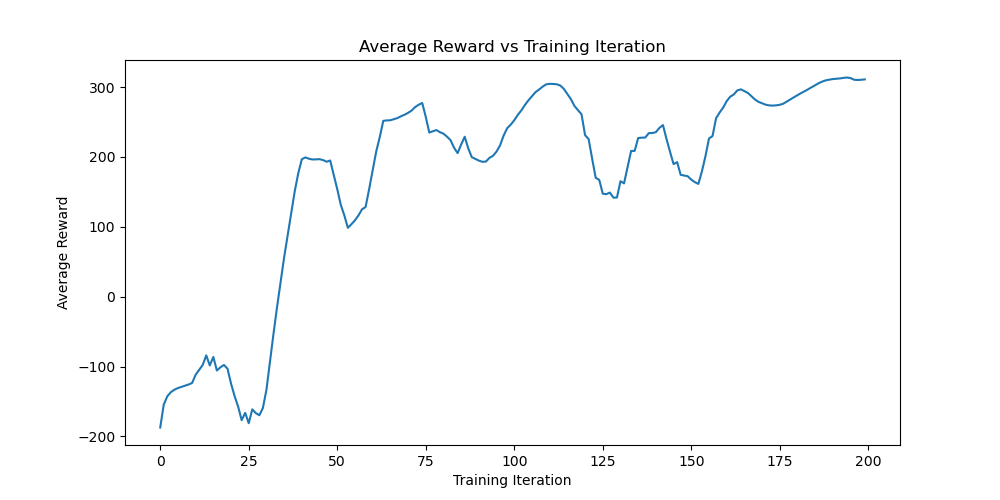
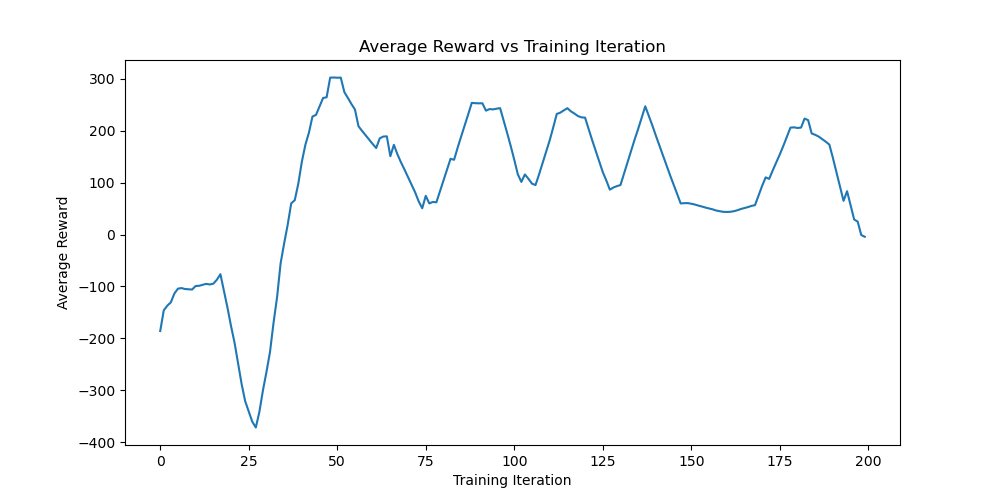
rerun

diff --git a/PG.py b/PG.py
@@ -314,11 +314,11 @@ if __name__ == "__main__":
     parser.add_argument("--env", default="LunarLander-v2")           # Gymnasium environment name
     parser.add_argument("--seed", default=0, type=int)               # Sets Gym, PyTorch and Numpy seeds //0
     parser.add_argument("--n-iter", default=200, type=int)           # Maximum number of training iterations //200
-    parser.add_argument("--discount", default=0.99)                  # Discount factor //0.99
+    parser.add_argument("--discount", default=0.992)                  # Discount factor //0.99
     parser.add_argument("--batch-size", default=8000, type=int)      # Training samples in each batch of training //5000
-    parser.add_argument("--lr", default=3e-3,type=float)             # Learning rate //5e-3
+    parser.add_argument("--lr", default=5e-3,type=float)             # Learning rate //5e-3
     parser.add_argument("--gpu-index", default=0,type=int)           # GPU index
-    parser.add_argument("--algo", default="Gt",type=str)       # PG algorithm type. Baseline/Gt/Rt
+    parser.add_argument("--algo", default="Baseline",type=str)       # PG algorithm type. Baseline/Gt/Rt
     args = parser.parse_args()
 
     # Making the environment    

diff --git a/PG_new_env.py b/PG_new_env.py
@@ -358,7 +358,7 @@ if __name__ == "__main__":
     parser.add_argument("--batch-size", default=1000, type=int)      # Training samples in each batch of training //5000
     parser.add_argument("--lr", default=5e-3,type=float)             # Learning rate //5e-3
     parser.add_argument("--gpu-index", default=0,type=int)           # GPU index
-    parser.add_argument("--algo", default="Rt",type=str)       # PG algorithm type. Baseline/Gt/Rt
+    parser.add_argument("--algo", default="Baseline",type=str)       # PG algorithm type. Baseline/Gt/Rt
     args = parser.parse_args()
 
     # Making the environment    
